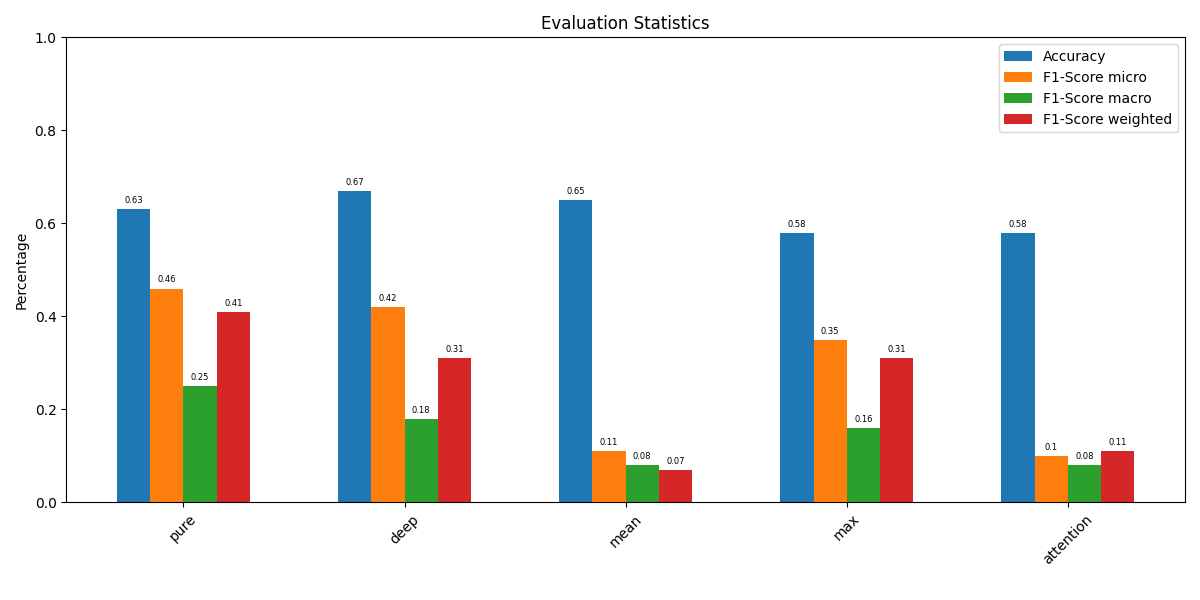
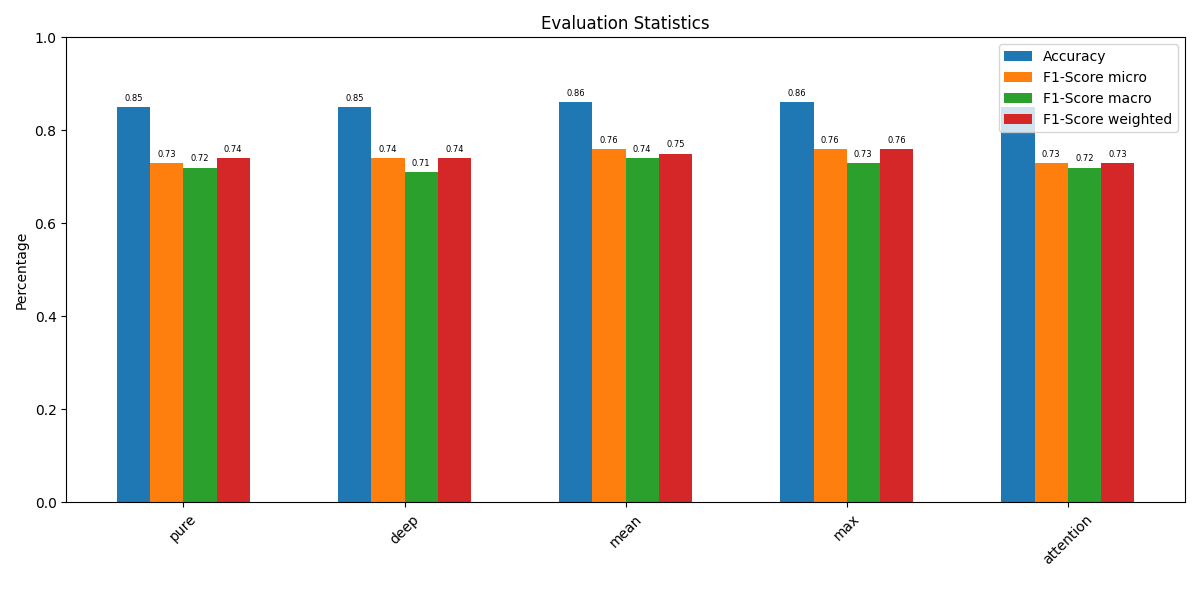
evaluation now works

diff --git a/eval_roberta.py b/eval_roberta.py
@@ -81,10 +81,13 @@ class ModelClass:
         self.model = select_model(
             name=name, backbone="roberta-base", num_labels=num_labels, device=device
         )
-        self.model.load_state_dict(
-            state_dict=torch.load(path, map_location=device),
-            strict=False,
-        )
+        checkpoint = torch.load(path)
+        self.model.load_state_dict(checkpoint["model_state_dict"])
+
+        # self.model.load_state_dict(
+        #     state_dict=torch.load(path, map_location=device),
+        #     strict=False,
+        # )
 
         self.model.eval()
 

diff --git a/common.py b/common.py
@@ -66,7 +66,7 @@ EMOTION_LABELS = [
     "joy",
     "sadness",
     "surprise",
-    "disgust",
+    # "disgust",
     "none",
 ]
 
